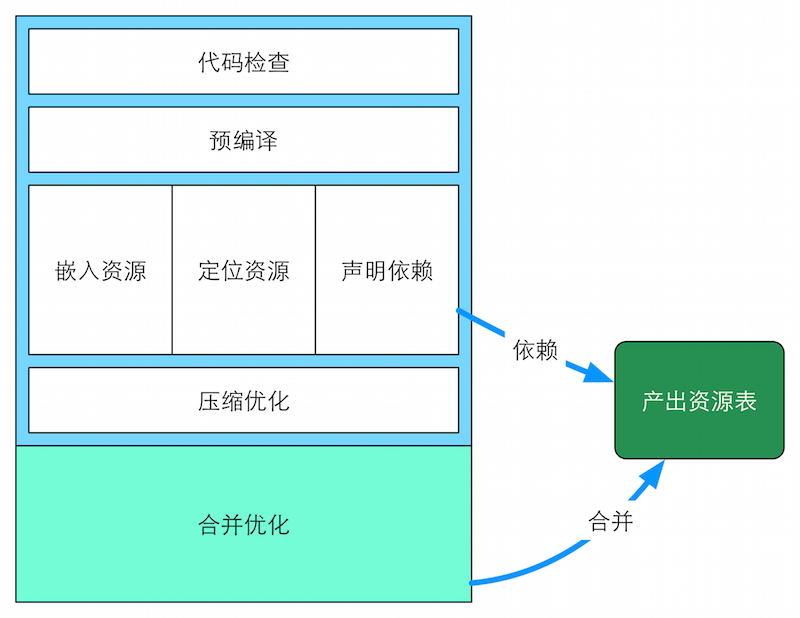
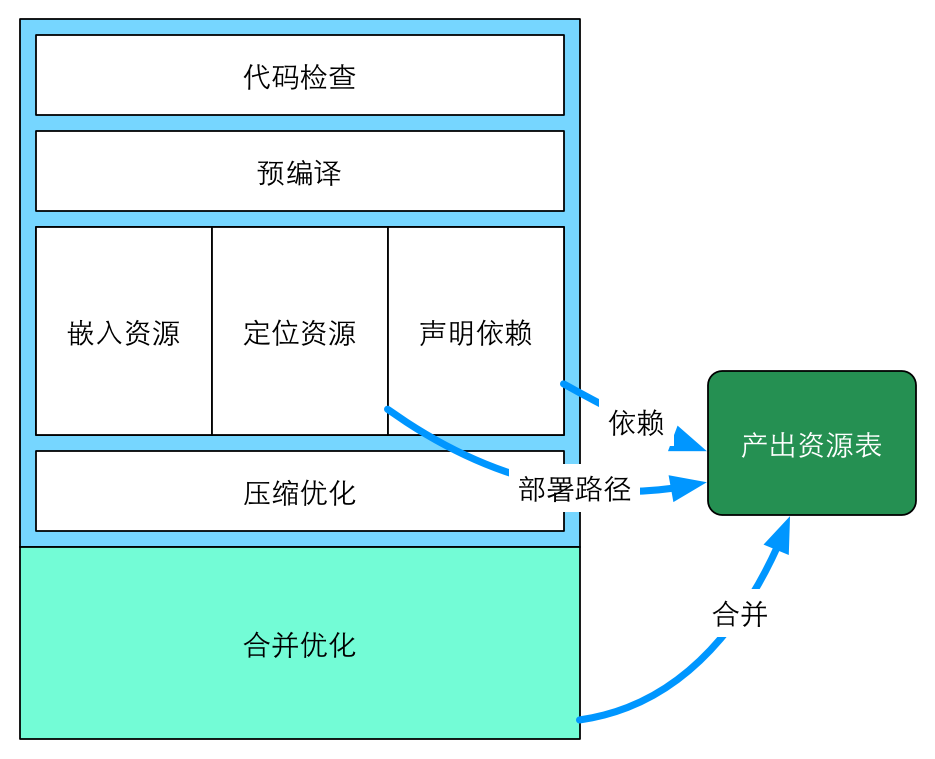
update

Changed region(s): [[0.0, 0.0, 1.0, 0.9838], [0.25, 0.8301, 0.375, 0.8916], [0.25, 0.2152, 0.375, 0.246]]

diff --git a/doc/docs/uri.md b/doc/docs/uri.md
@@ -1,7 +1,5 @@
 ## 定位资源
 
-![](./img/outline-by-fis3-standard.png)
-
 定位资源能力，可以有效的分离开发路径与部署路径之间的关系，工程师不再关心资源部署到线上之后去了哪里，变成了什么名字，这些都可以通过配置来指定。而工程师只需要使用相对路径来定位自己的开发资源即可。这样的好处是 资源可以发布到任何静态资源服务器的任何路径上而不用担心线上运行时找不到它们，而且代码 具有很强的可移植性，甚至可以从一个产品线移植到另一个产品线而不用担心线上部署不一致的问题。
 
 ![定位资源](https://raw.githubusercontent.com/fouber/fis-wiki-img/master/uri.png)

diff --git a/doc/docs/require.md b/doc/docs/require.md
@@ -1,7 +1,5 @@
 ## 声明依赖
 
-![](./img/outline-by-fis3-standard.png)
-
 声明依赖能力为工程师提供了声明依赖关系的编译接口。
 
 FIS3 在执行编译的过程中，会扫描这些编译标记，从而建立一张 静态资源关系表，资源关系表详细记录了项目内的静态资源id、发布后的线上路径、资源类型以及 **依赖关系** 和 **资源打包**等信息。使用 FIS3 作为编译工具的项目，可以将这张表提交给后端或者前端框架去运行时根据组件使用情况来 按需加载资源或者资源所在的包，从而提升前端页面运行性能。

diff --git a/doc/docs/inline.md b/doc/docs/inline.md
@@ -1,7 +1,5 @@
 ## 嵌入资源
 
-![](./img/outline-by-fis3-standard.png)
-
 嵌入资源即内容嵌入，可以为工程师提供诸如图片base64嵌入到css、js里，前端模板编译到js文件中，将js、css、html拆分成几个文件最后合并到一起的能力。有了这项能力，可以有效的减少http请求数，提升工程的可维护性。 fis不建议用户使用内容嵌入能力作为组件化拆分的手段，因为[声明依赖](./require.md)能力会更适合组件化开发。
 
 ### 在html中嵌入资源

diff --git a/doc/docs/packager.md b/doc/docs/packager.md
@@ -1,2 +1,15 @@
 ## 合并优化
 
+合并关键资源（js & css）能有效的优化网页呈现。
+
+FIS3 中可以方便的对文件进行合并。
+
+```
+fis.match('*.js', {
+  toPack: '/static/aio.js'
+});
+
+fis.match('*.{css,less}', {
+  toPack: '/static/aio.css'
+});
+```

diff --git a/doc/docs/parser.md b/doc/docs/parser.md
@@ -1,5 +1,3 @@
 ## 预编译
 
-![](./img/outline-by-fis3-pre-parser.png)
-
 预编译，通过此功能让所有的资源变为浏览器能识别的一些资源，比如这个阶段一般都用作对异构语言的编译、模板语言的预编译等。
